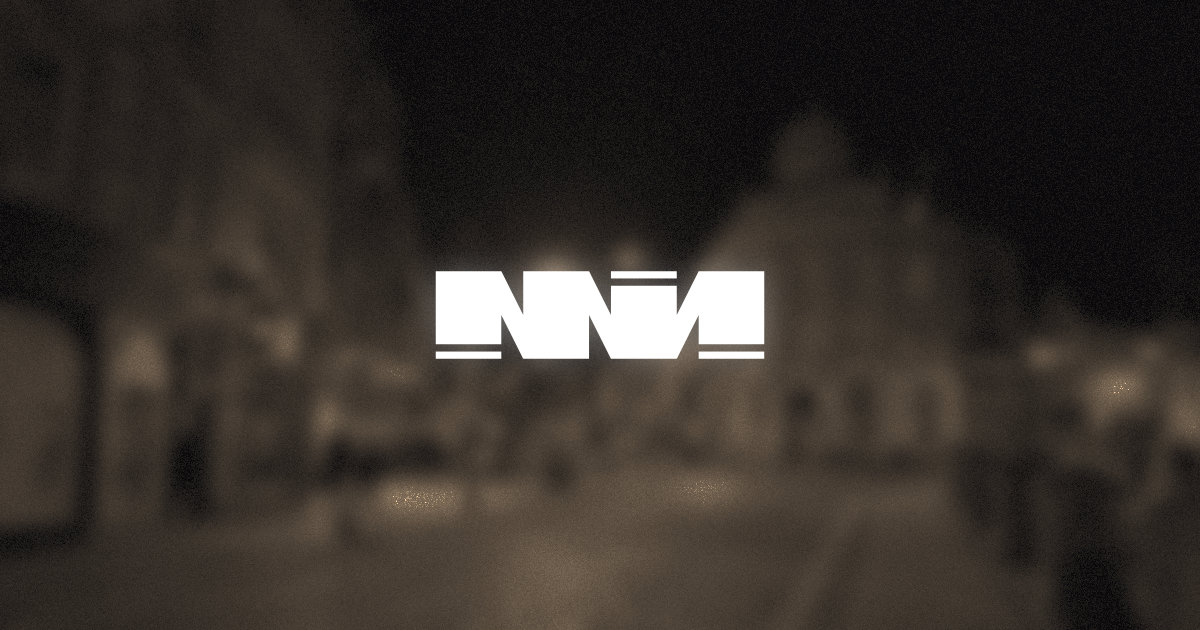
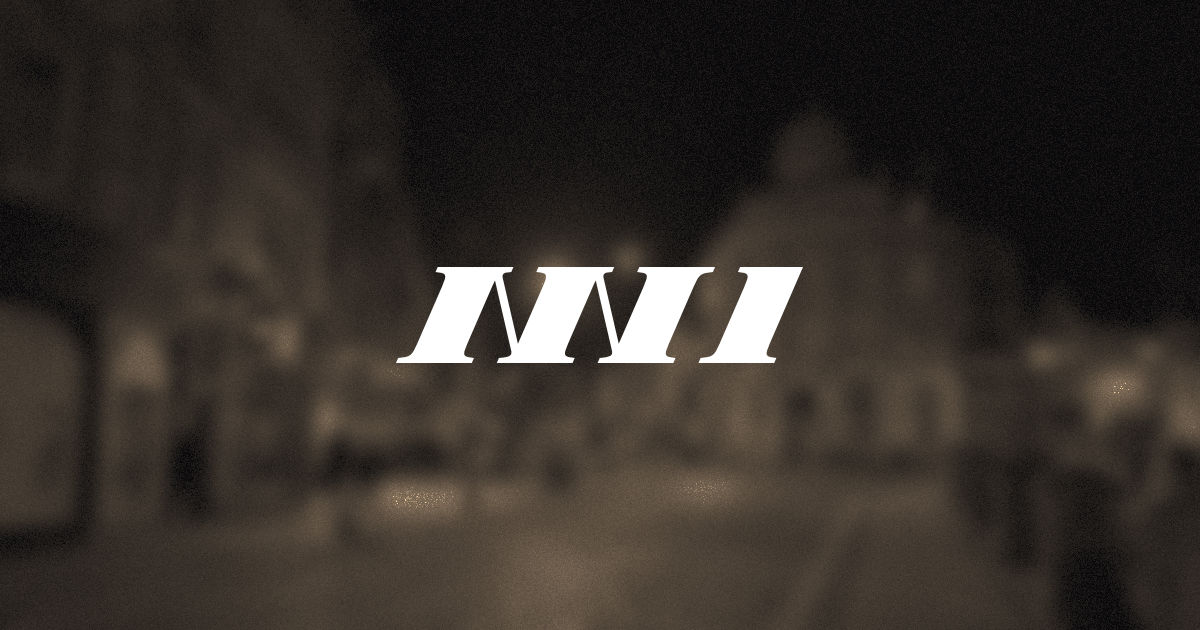
add new iconography

Changed region(s): [[0.3392, 0.4222, 0.6783, 0.6032]]

diff --git a/components/Nav.tsx b/components/Nav.tsx
@@ -3,42 +3,24 @@ import Link from "next/link";
 function Nav() {
   return (
     <header className="border-b bg-zinc-900 border-zinc-800">
-      <div className="mx-auto max-w-7xl">
-        <div className="px-6 py-6 lg:max-w-2xl lg:px-8">
-          <nav className="flex items-center" aria-label="Global">
-            <Link href="/" className="hover:opacity-75">
-              <svg
-                viewBox="0 0 45 12"
-                fill="none"
-                xmlns="http://www.w3.org/2000/svg"
-                className="h-6"
-              >
-                <g clipPath="url(#clip0_1_2)">
-                  <path
-                    fillRule="evenodd"
-                    clipRule="evenodd"
-                    d="M0 0V10H9V6L12 12H21V6L24 12H27H30H33L36 6V10H45V0H39H36L33 6V2H24V6L21 0H18H12V6L9 0H0ZM9 11H0V12H9V11ZM33 0H24V1H33V0ZM36 11H45V12H36V11Z"
-                    fill="white"
-                  />
-                </g>
-                <defs>
-                  <clipPath id="clip0_1_2">
-                    <rect width="45" height="12" fill="white" />
-                  </clipPath>
-                </defs>
-              </svg>
-            </Link>
-            <div className="ml-12 flex">
-              <Link
-                href="/events"
-                className="text-sm font-base leading-6 text-zinc-100 hover:text-orange-200"
-              >
-                All events
-              </Link>
-            </div>
-          </nav>
-        </div>
-      </div>
+      <nav className="flex justify-center items-center mx-auto max-w-7xl p-6">
+        <Link href="/" className="hover:opacity-75">
+          <svg
+            width="102"
+            height="24"
+            viewBox="0 0 102 24"
+            fill="none"
+            xmlns="http://www.w3.org/2000/svg"
+          >
+            <path
+              fill-rule="evenodd"
+              clip-rule="evenodd"
+              d="M60.8236 0.00575361L60.8261 0L60.8203 0.00575361H60.8236ZM60.8236 0.00575361L60.285 1.24922C63.0309 1.50827 63.267 1.75581 61.9084 4.88174L55.7083 19.1528H55.6795L51.8513 2.55025C51.7304 2.03214 52.07 1.51403 52.5997 1.42192C52.6524 1.41261 52.7052 1.40498 52.7588 1.39721C52.8047 1.39057 52.8512 1.38383 52.899 1.37587H52.9278C53.0635 1.35703 53.2041 1.34065 53.3512 1.32351C53.4288 1.31447 53.5083 1.30522 53.5898 1.29527C53.6129 1.29527 53.6416 1.29527 53.6647 1.28952C53.7798 1.278 53.9007 1.26649 54.0216 1.25497L54.5627 0.00575361H35.6172L35.076 1.25497C35.2487 1.27224 35.4099 1.28952 35.5596 1.30679C35.7093 1.32406 35.8532 1.34132 35.9856 1.3586C36.0177 1.36394 36.0485 1.36805 36.0787 1.37206C36.1135 1.3767 36.1474 1.38121 36.1813 1.38738C36.4922 1.43919 36.7455 1.50252 36.9412 1.58311C36.9614 1.59175 36.9801 1.60038 36.9988 1.60901C37.0175 1.61765 37.0362 1.62628 37.0564 1.63492C37.1255 1.66946 37.1888 1.71552 37.2406 1.75581C37.35 1.84792 37.419 1.9573 37.4651 2.08971C37.5284 2.2912 37.5227 2.53874 37.4478 2.86687C37.4304 2.9495 37.4065 3.03541 37.3809 3.12709C37.3726 3.15677 37.3642 3.18706 37.3557 3.21804C37.3287 3.3171 37.2911 3.41969 37.2512 3.52856C37.2401 3.55887 37.2288 3.58967 37.2176 3.62101C37.0852 3.97793 36.9125 4.39818 36.6995 4.8875L30.4994 19.1586H30.4706L26.6424 2.55601C26.5215 2.0379 26.8611 1.51979 27.3907 1.42768C27.7937 1.3586 28.26 1.30678 28.8184 1.25497L29.3596 0.00575361H10.4255L9.88439 1.25497C12.6304 1.51403 12.8664 1.76157 11.5078 4.8875L5.30775 19.1586C3.95491 22.273 3.55193 22.4687 0.541137 22.7508L0 24H18.9456L19.4867 22.7508C16.7234 22.4399 16.4817 22.2615 17.8345 19.1586L24.0345 4.8875C24.2994 4.27728 24.5296 3.77644 24.7484 3.36771L28.8587 21.2022C28.9508 21.6109 28.7666 22.0485 28.3867 22.2327C28.3723 22.2384 28.3579 22.2456 28.3435 22.2528C28.3291 22.26 28.3147 22.2672 28.3003 22.273C28.2946 22.2758 28.2874 22.2787 28.2802 22.2816C28.273 22.2845 28.2658 22.2874 28.26 22.2902L28.1737 22.3248C28.169 22.3263 28.1648 22.3279 28.1607 22.3294C28.1498 22.3336 28.1402 22.3378 28.1276 22.3421C28.0988 22.3536 28.07 22.3651 28.0355 22.3766C28.0247 22.3766 28.0162 22.3811 28.0071 22.3858C28.0016 22.3887 27.996 22.3917 27.9895 22.3939C27.8858 22.4284 27.7764 22.4572 27.6556 22.486C27.6469 22.486 27.6368 22.4888 27.6268 22.4917C27.6167 22.4946 27.6066 22.4975 27.598 22.4975C27.5634 22.5032 27.5347 22.509 27.5001 22.5205C27.4848 22.5205 27.4694 22.5256 27.4541 22.5307C27.4464 22.5333 27.4387 22.5359 27.431 22.5378C27.4138 22.5407 27.3979 22.5435 27.3821 22.5464C27.3663 22.5493 27.3504 22.5522 27.3332 22.555C27.3188 22.555 27.3058 22.5579 27.2929 22.5608C27.2799 22.5637 27.267 22.5666 27.2526 22.5666C27.2303 22.5666 27.2105 22.5713 27.19 22.5763C27.1786 22.579 27.167 22.5818 27.1547 22.5838C27.1403 22.5838 27.1245 22.5867 27.1087 22.5896C27.0928 22.5925 27.077 22.5954 27.0626 22.5954C27.0367 22.5982 27.0108 22.6025 26.9849 22.6069C26.959 22.6112 26.9331 22.6155 26.9072 22.6184C26.887 22.6213 26.8654 22.6241 26.8438 22.627C26.8222 22.6299 26.8007 22.6328 26.7805 22.6356C26.7517 22.6356 26.7172 22.6414 26.6827 22.6472C26.6558 22.6472 26.6289 22.6523 26.6021 22.6574C26.5886 22.66 26.5752 22.6625 26.5618 22.6644C26.5272 22.6644 26.4927 22.6702 26.4582 22.6759L26.4581 22.6759C26.4387 22.6759 26.4179 22.6786 26.3963 22.6814C26.3733 22.6844 26.3495 22.6875 26.3257 22.6875C26.297 22.6875 26.2624 22.6932 26.2279 22.699C26.1949 22.699 26.1619 22.7036 26.1274 22.7085C26.1078 22.7113 26.0876 22.7141 26.0667 22.7162H26.0666C26.0379 22.7162 26.0149 22.7162 25.9861 22.722C25.9458 22.7249 25.9041 22.7292 25.8623 22.7335C25.8206 22.7378 25.7789 22.7421 25.7386 22.745L25.1974 23.9942H44.143L44.6841 22.745C44.0796 22.6759 43.5961 22.6184 43.2219 22.5263C43.1701 22.5148 43.1183 22.5032 43.0664 22.486C42.9686 22.4572 42.8822 22.4284 42.8016 22.3939C42.6404 22.3305 42.5196 22.2499 42.4274 22.1521C42.3814 22.106 42.3411 22.0485 42.3123 21.9909C42.0763 21.5188 42.3526 20.6956 43.0261 19.147L49.2262 4.87599C49.2546 4.81513 49.2801 4.75427 49.3048 4.69543C49.3152 4.67078 49.3254 4.64649 49.3356 4.62269C49.3424 4.60208 49.3514 4.58351 49.3599 4.56578C49.3657 4.55379 49.3712 4.54219 49.3759 4.53058C49.3874 4.50755 49.3975 4.48309 49.4075 4.45862C49.4176 4.43415 49.4277 4.40969 49.4392 4.38666L49.4393 4.38633C49.4566 4.34614 49.4738 4.30597 49.491 4.27153C49.4981 4.25733 49.5042 4.24312 49.5102 4.22932C49.5187 4.20956 49.5269 4.19061 49.5371 4.17366C49.6119 4.00672 49.6867 3.85128 49.7616 3.7016C49.7616 3.69585 49.7673 3.68434 49.7731 3.67858C49.7871 3.64709 49.8032 3.61772 49.8189 3.58919C49.829 3.57078 49.8389 3.55272 49.8479 3.53466C49.8479 3.52315 49.8594 3.51163 49.8652 3.50588C49.8767 3.48283 49.8897 3.45835 49.9026 3.43386C49.9156 3.40941 49.9285 3.38497 49.94 3.36196L54.0504 21.1965C54.1482 21.6109 53.9583 22.0427 53.5783 22.2327C52.9739 22.532 52.1794 22.6356 50.936 22.7508L50.3948 24H69.3404L69.8815 22.7508C67.1183 22.4399 66.8765 22.2615 68.2293 19.1586L74.4294 4.8875C75.788 1.76157 76.2255 1.54281 79.2248 1.25497L79.7659 0.00575361H60.8236ZM93.4383 19.1528L101.757 0H86.0293L85.4881 1.24922C88.2341 1.50827 88.4702 1.75581 87.1116 4.88174L80.9115 19.1528C79.5587 22.2672 79.1499 22.4629 76.1449 22.745L75.6038 23.9942H94.5493L95.0905 22.745C92.333 22.4399 92.0912 22.2557 93.4383 19.1528Z"
+              fill="white"
+            />
+          </svg>
+        </Link>
+      </nav>
     </header>
   );
 }
